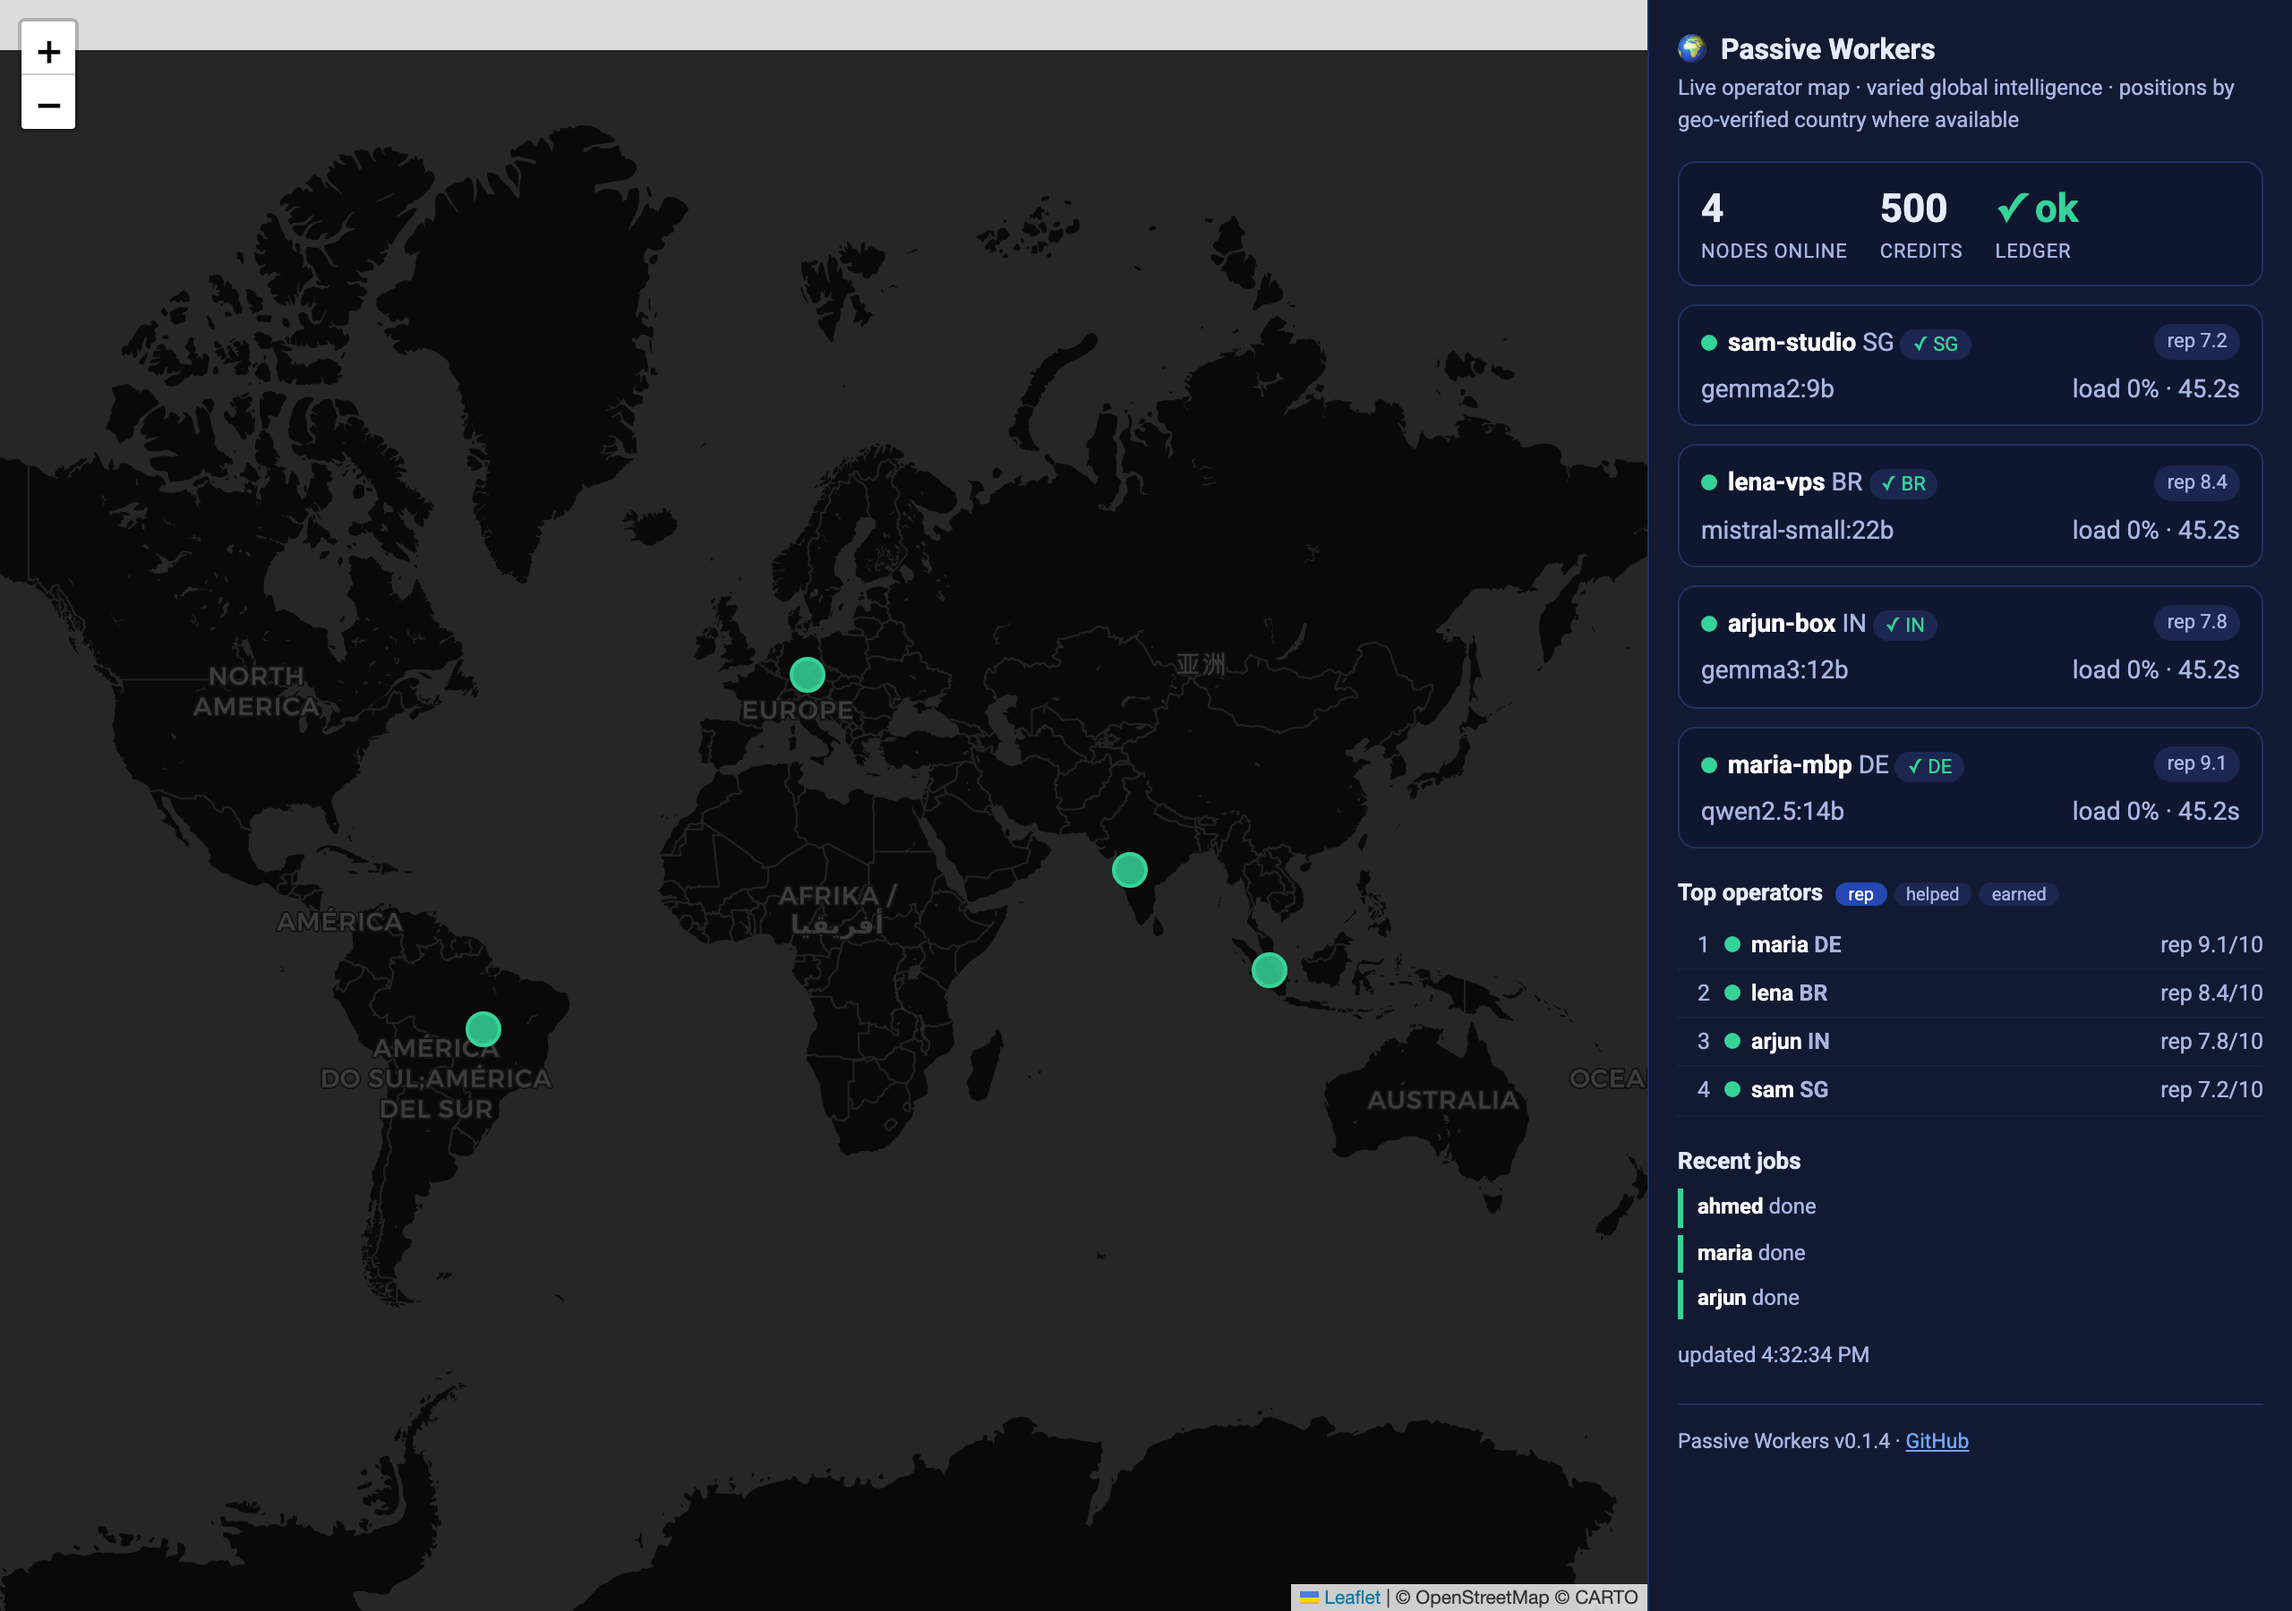
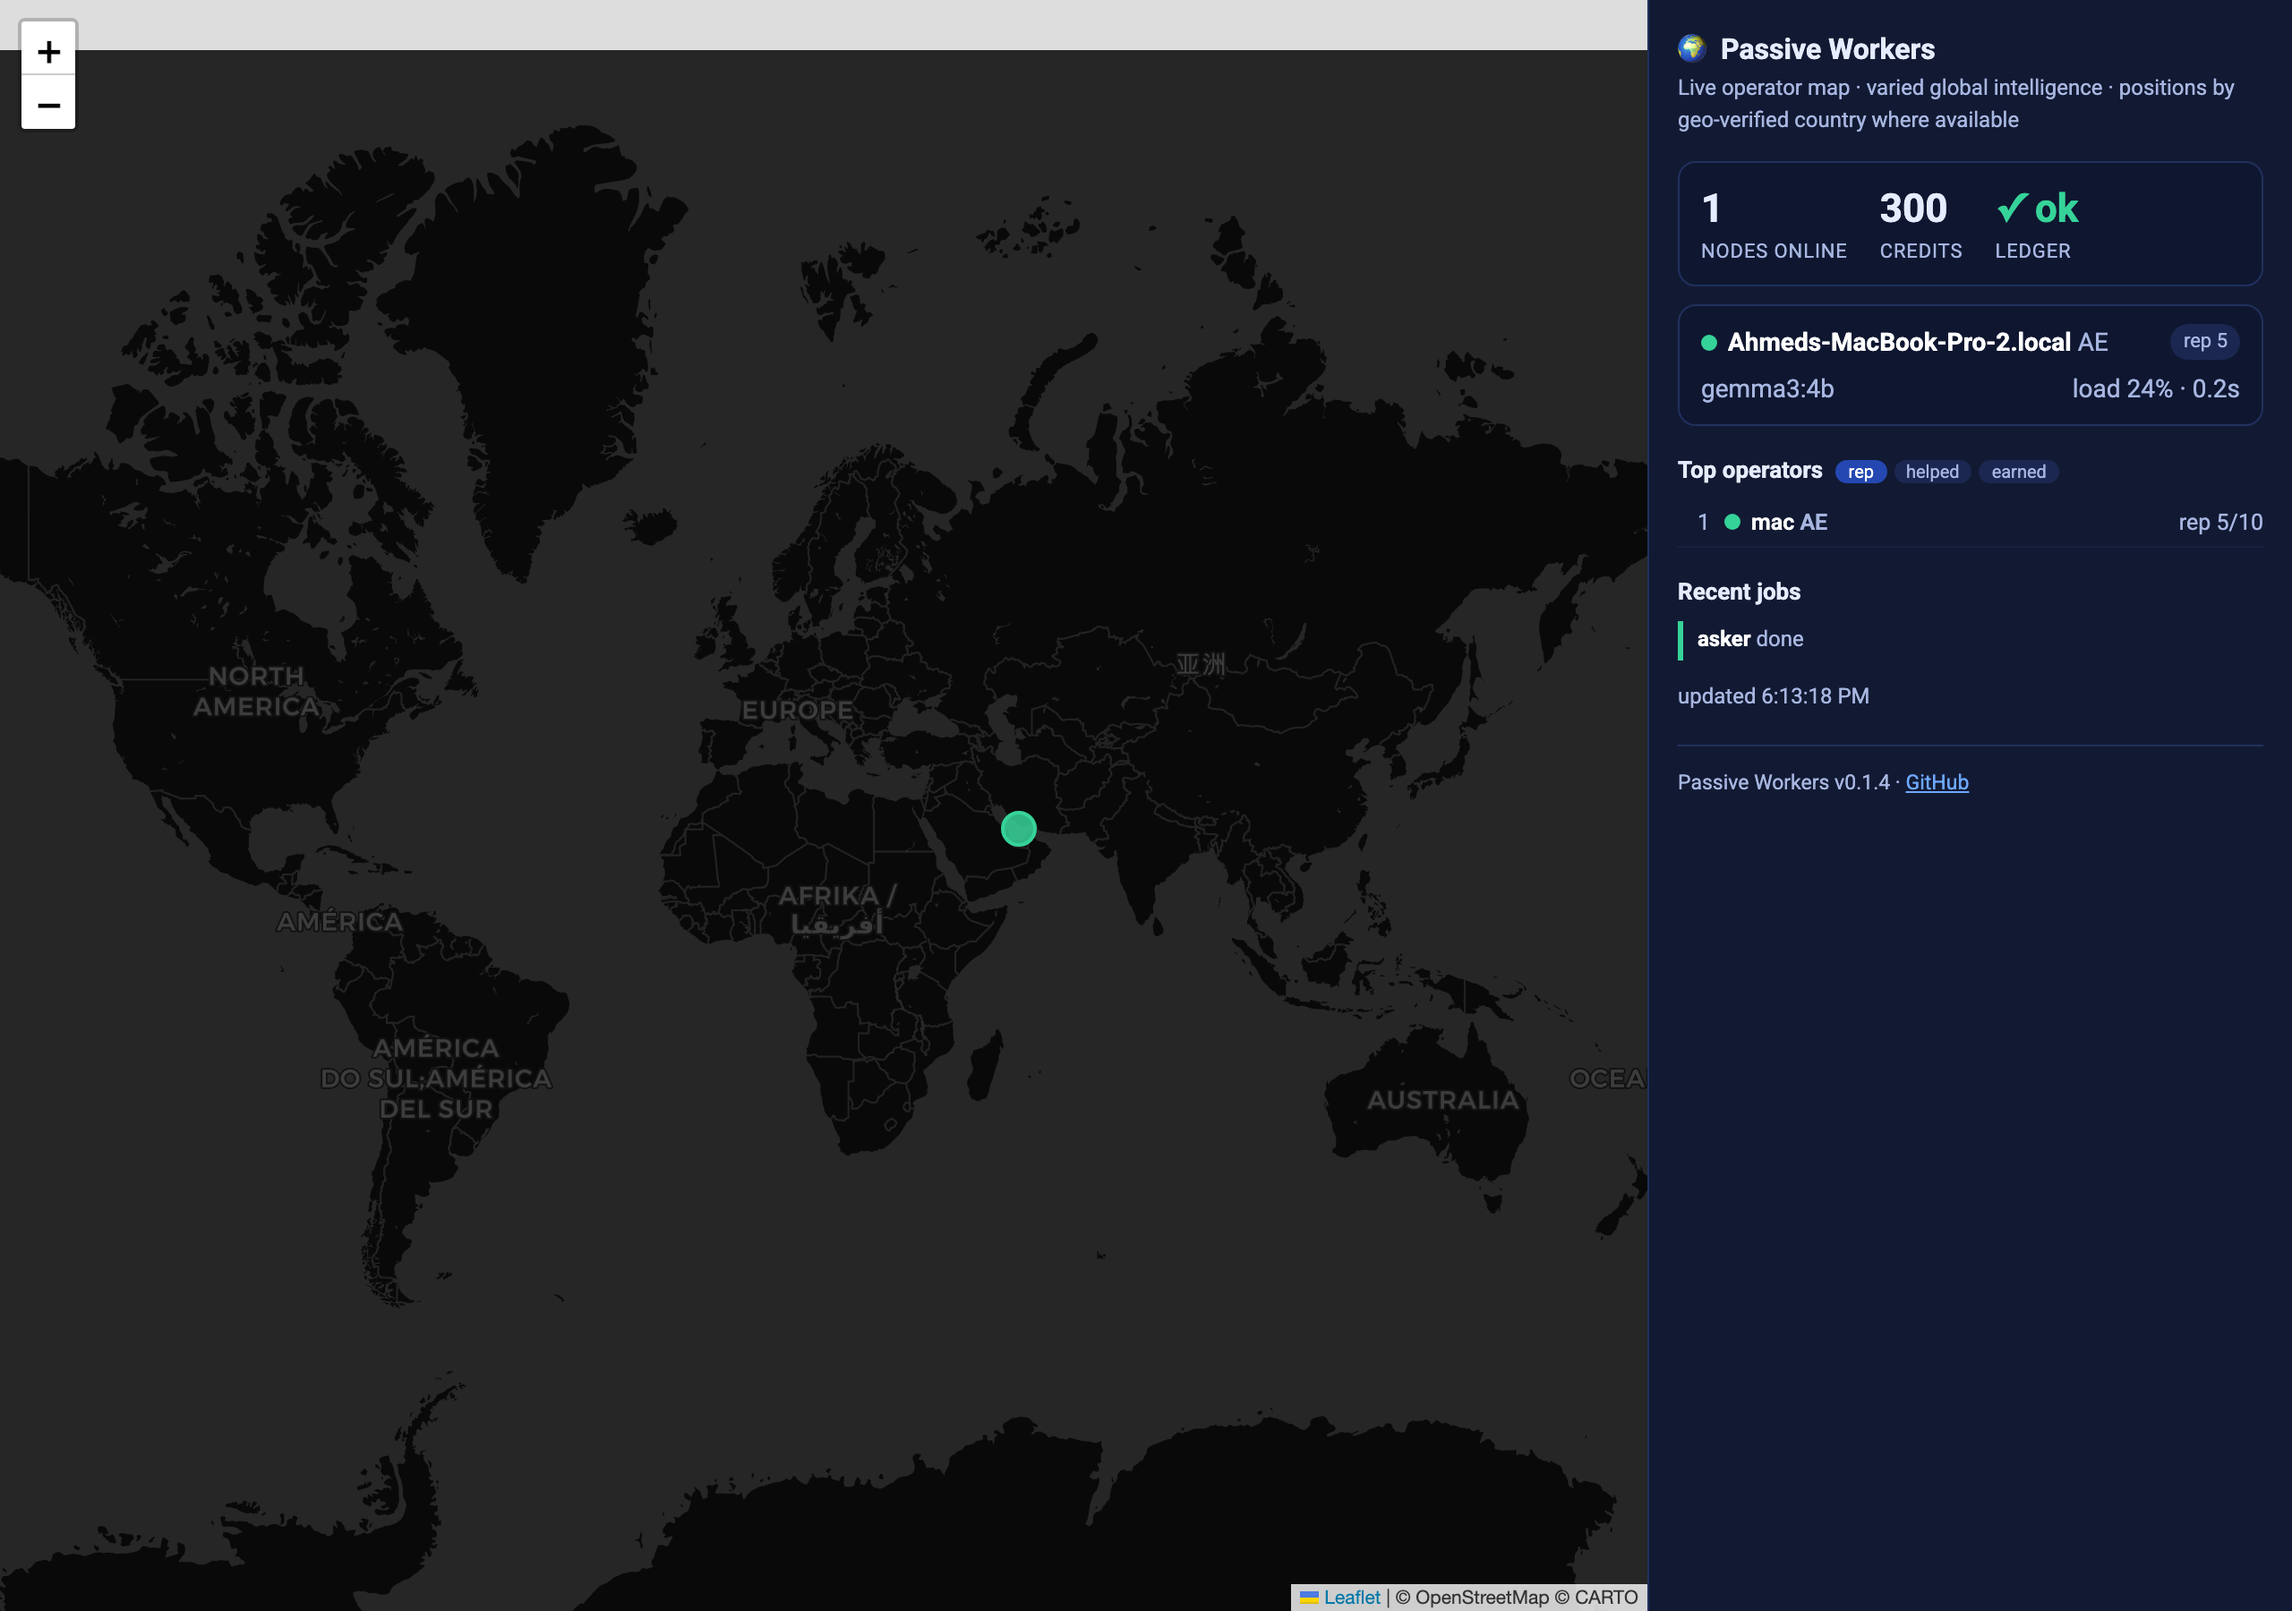
Pages: real screenshots + dogfood findings (D47)

diff --git a/index.html b/index.html
@@ -57,9 +57,11 @@
   signal, not a league table. Full detail: <a href="BENEFIT.md">BENEFIT.md</a>.</div>
 
   <h2>See the real app</h2>
-  <p class="sub">Screenshots of the live UI (Playwright, desktop + mobile). The research desk shows a
-  <b>real</b> generated report; the marketplace council answer is an <b>illustrative</b> seeded example;
-  the dashboard nodes/leaderboard are seeded demo data.</p>
+  <p class="sub">Screenshots of the live UI (Playwright, desktop + mobile) — <b>all real</b>: a real
+  generated report, and a genuine single-node deployment where a brand-new operator joined with
+  <code>pw join</code> and answered a real job (the operator <code>mac&nbsp;AE</code> even appears on the
+  leaderboard with a real <code>rep&nbsp;5/10</code>). At scale, the map and leaderboard fill out as more
+  operators join.</p>
   <h3>Research desk — a real, cited, current report</h3>
   <div class="grid">
     <figure><img src="img/research-desk-desktop.png" alt="research desk desktop"/><figcaption>Desktop — live web report with [S#] citations</figcaption></figure>
@@ -67,13 +69,13 @@
   </div>
   <h3>Marketplace — a global council deliberating</h3>
   <div class="grid">
-    <figure><img src="img/marketplace-desktop.png" alt="marketplace desktop"/><figcaption>Desktop — live map, consensus &amp; disagreement preserved (illustrative seeded example)</figcaption></figure>
-    <figure><img src="img/marketplace-mobile.png" alt="marketplace mobile"/><figcaption>Mobile — stacked layout (illustrative seeded example)</figcaption></figure>
+    <figure><img src="img/marketplace-desktop.png" alt="marketplace desktop"/><figcaption>Desktop — a real job answered live (1 operator online), the council's answer shown</figcaption></figure>
+    <figure><img src="img/marketplace-mobile.png" alt="marketplace mobile"/><figcaption>Mobile — stacked layout (live)</figcaption></figure>
   </div>
   <h3>Operator dashboard — geo-verified nodes &amp; leaderboard</h3>
   <div class="grid">
-    <figure><img src="img/dashboard-desktop.png" alt="dashboard desktop"/><figcaption>Desktop — ✓ geo-verified badges, operator leaderboard, ledger ✓ ok (seeded demo data)</figcaption></figure>
-    <figure><img src="img/dashboard-mobile.png" alt="dashboard mobile"/><figcaption>Mobile (seeded demo data)</figcaption></figure>
+    <figure><img src="img/dashboard-desktop.png" alt="dashboard desktop"/><figcaption>Desktop — real operator on the leaderboard (mac AE, rep 5/10), ledger ✓ ok</figcaption></figure>
+    <figure><img src="img/dashboard-mobile.png" alt="dashboard mobile"/><figcaption>Mobile (live)</figcaption></figure>
   </div>
 
   <h2>Read a real report</h2>

diff --git a/BENEFIT.md b/BENEFIT.md
@@ -70,13 +70,26 @@ verbosity advantage. That's the honest shape: the diversity dividend is real **p
 - **Not a frontier-beater on stable knowledge** — the static tie proves it; don't use it for math/code/
   explanations where a frontier chatbot is better.
 - **Small samples** in the currency eval — directional, not a benchmark league table.
-- **The network is the maturing track.** The multi-node map, geo-verified badges, and leaderboard in
-  the screenshots below are driven by **seeded demo data** (clearly labeled) — the *single-player*
-  engine is the verified flagship; the federation is real code but early/invite-only.
+- **The network is the maturing track.** The screenshots below are a **real but small** deployment:
+  a brand-new operator joined with `pw join` and answered one real job (it even shows up on the
+  leaderboard as `mac AE`, rep 5/10). It's genuine, not seeded — but it's *one* node; the map and
+  leaderboard fill out only as real operators join (still invite-only). The single-player engine is
+  the verified flagship; the federation is real, working code that's early.
+
+## Validated by dogfooding on a real VPS (2026-06-14)
+We ran the **actual operator onboarding on a Hetzner VPS** (Ubuntu, a machine we don't develop on):
+`pip install passiveworkers` (7s) → `pw join` registered the node and wrote `~/.passiveworkers/join.json`
+**owner-only (0600)**. This surfaced — and we fixed — **two real bugs that made `pw join` unusable**:
+(1) enrolled nodes were rejected on every authenticated call because those endpoints also demanded the
+shared admin token a `pw join` operator never has (now the per-node secret authenticates on its own);
+(2) a lone operator defaulted to *not* judging, so jobs failed "no judge node online" (judging is now
+on by default). After the fixes, the full loop completes end-to-end (answer → judge → cited result) —
+verified locally with a real `done` job; on the VPS it reached the judge stage but hit the 600s deadline
+purely because that box was at load ~20 (other workloads), not a code issue.
 
 ## See it (screenshots of the real running app)
-Desktop + mobile, captured with Playwright against the live UIs. (The research desk shows a **real**
-generated report; the marketplace council answer is an **illustrative** seeded example.)
+Desktop + mobile, captured with Playwright against the live UIs — **all real** (a real generated
+report; a real answered job; a real single-node operator dashboard).
 
 | Surface | Desktop | Mobile |
 |---|---|---|
